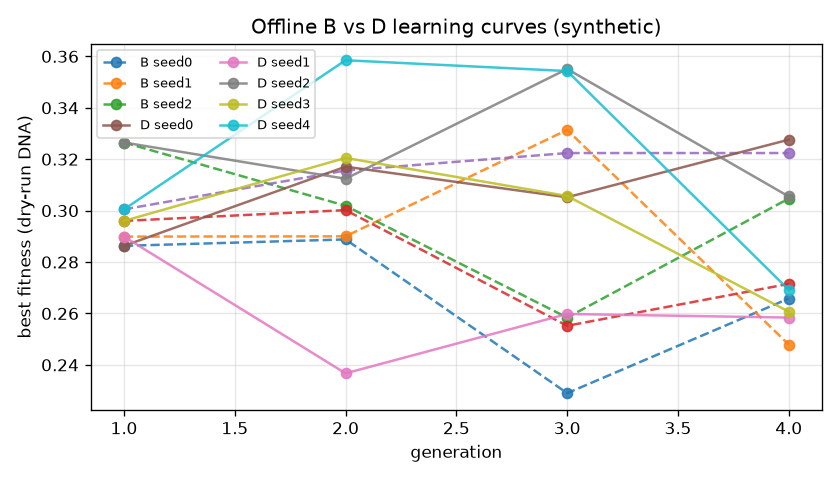
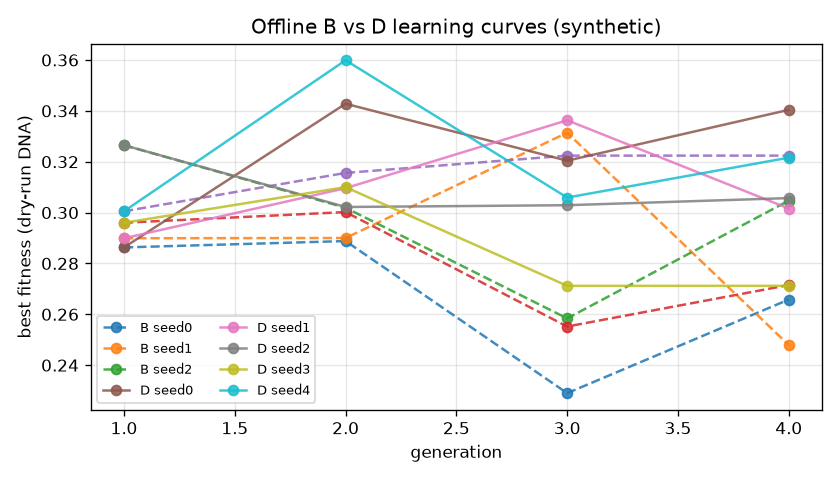
Document Tick 10 offline B vs D after mutation-bias hardening.
Refresh ICML status docs, case study, figures, and Section 12 with
pilot 1510–1514 vs 1520–1524: gens30 2/5, mean gap ~2.56pp, H5 4/5.
STATUS remains IN_PROGRESS pending live GPQA.

diff --git a/scripts/offline_bvd_case_study.py b/scripts/offline_bvd_case_study.py
@@ -292,7 +292,7 @@ def _write_case_study_md(case: dict, compare: dict, path: Path) -> None:
     lines = [
         "# Offline case study — Condition D mechanism chain",
         "",
-        "**Status:** offline dry-run evidence (synthetic GPQA fixture; DNA-hash fitness). "
+        "**Status:** offline dry-run evidence (synthetic GPQA fixture; additive latent DNA fitness). "
         "Does **not** satisfy live PRIMARY. Supports MECHANISM case-study criterion.",
         "",
         f"**Run:** `{case['run_dir']}`",
@@ -478,7 +478,7 @@ def main(argv: list[str] | None = None) -> int:
         "case_study": case,
         "figures": figs,
         "note": (
-            "Synthetic DNA-hash fitness with transferable traits; offline only. "
+            "Synthetic additive latent DNA fitness with transferable traits; offline only. "
             "Do not set ICML_READY PRIMARY from this."
         ),
     }

diff --git a/docs/paper_artifacts.md b/docs/paper_artifacts.md
@@ -1,10 +1,11 @@
 # ICML paper artifacts
 
-**Status:** offline mechanism pack + synthetic B vs D pilot refreshed (2026-08-04 Tick 9). No publishable **live** GPQA figures/tables yet.
+**Status:** offline mechanism pack + synthetic B vs D pilot refreshed (2026-08-04 Tick 10). No publishable **live** GPQA figures/tables yet.
 
 ## Abstract (draft — do not claim READY)
 
-We study whether a Contradiction-Aware Belief System (CABS) improves sample efficiency of population-based Darwinian self-improvement. Fitness-only evolution (Condition B) is compared to epistemic-full steering (Condition D: beliefs → contradictions → research questions → fitness-weighted biased mutation / scoped feedback). Offline dry-run pilots with additive latent DNA fitness show a concrete case study (contradiction → preferred DNA → population skew → fitness lift) and multi-seed H5 validity (Spearman ρ > 0.3 on 4/5 seeds; pooled ρ ≈ 0.34) after adding a steering-opportunity term to epistemic value. **Offline PRIMARY (D≻B on ≥3/5 seeds) is not yet met; live multi-seed GPQA subset results pending.** Mechanism claim requires measurable DNA trait skew under contradiction bias (H2) and predictive validity of epistemic value for next-step fitness gain (H5) on live runs.
+We study whether a Contradiction-Aware Belief System (CABS) improves sample efficiency of population-based Darwinian self-improvement. Fitness-only evolution (Condition B) is compared to epistemic-full steering (Condition D: beliefs → contradictions → research questions → fitness-weighted biased mutation / scoped feedback). Offline dry-run pilots with additive latent DNA fitness show a concrete case study (contradiction → preferred DNA → population skew → fitness lift) and multi-seed H5 validity (Spearman ρ > 0.3 on 4/5 seeds) after preferred-allele anchoring and skipping singleton same-allele bias pools. **Offline PRIMARY (D≻B on ≥3/5 seeds) is not yet met** (gens30 2/5; mean final gap ~2.6pp); **live multi-seed GPQA subset results pending.** Mechanism claim requires measurable DNA trait skew under contradiction bias (H2) and predictive validity of epistemic value for next-step fitness gain (H5) on live runs.
+
 
 ## Reproducible run IDs
 
@@ -14,9 +15,10 @@ We study whether a Contradiction-Aware Belief System (CABS) improves sample effi
 | D epistemic_full (dry-run H5 smoke) | 7 | 1402 | Offline only — pre-fix; constant epistemic_value=11.9 → ρ undefined; H2 memory in-bias 0.875 |
 | D epistemic_full (dry-run H5 after epi fix) | 7 | 1403 | Offline — age-weighted + flow epi; H5 ρ **0.5**; not live GPQA |
 | B / D (Tick 8 hash-fitness pilot) | 11–55 | 1410–1414 / 1420–1424 | Superseded — non-causal hash fitness |
-| B / D (Tick 9 mid pilots) | 11–55 | 1430–1454 / 1440–1464 | Intermediate retunes; see latest |
-| B darwinian-only (offline pilot Tick 9) | 11/22/33/44/55 | 1470–1474 | Additive latent fitness; gitignored `runs/` |
-| D epistemic_full (offline pilot Tick 9) | 11/22/33/44/55 | 1480–1484 | H5 4/5 ρ>0.3; case study on `1480` |
+| B / D (Tick 9 mid pilots) | 11–55 | 1430–1464 / 1470–1484 | Superseded by Tick 10 bias fix |
+| B / D (Tick 10 mid: anchoring-only) | 11–55 | 1490–1494 / 1500–1504 | Intermediate — singleton bias still wiped elites |
+| B darwinian-only (offline pilot Tick 10) | 11/22/33/44/55 | 1510–1514 | Additive latent + singleton gate; gitignored `runs/` |
+| D epistemic_full (offline pilot Tick 10) | 11/22/33/44/55 | 1520–1524 | H5 4/5 ρ>0.3; case study on `1520` |
 | B darwinian-only | — | — | none yet (live) |
 | D epistemic_full | — | — | none yet (live) |
 
@@ -24,17 +26,17 @@ Reserve unused integer IDs; never overwrite. Next live IDs suggested: B `1201+`,
 
 ## Table 1 — Primary (B vs D)
 
-### Offline synthetic pilot (Tick 9 — not PRIMARY)
+### Offline synthetic pilot (Tick 10 — not PRIMARY)
 
-| Seed | B final | D final | B gens@25% | D gens@25% | B gens@30% | D gens@30% | Winner (final / gens30) |
-|------|---------|---------|------------|------------|------------|------------|-------------------------|
-| 11 | 0.2658 | 0.3276 | 1 | 1 | — | 2 | D / D |
-| 22 | 0.2479 | 0.2584 | 1 | 1 | 3 | — | tie / B |
-| 33 | 0.3047 | 0.3055 | 1 | 1 | 1 | 1 | tie / tie |
-| 44 | 0.2715 | 0.2607 | 1 | 1 | 2 | 2 | tie / tie |
-| 55 | 0.3224 | 0.2692 | 1 | 1 | 1 | 1 | B / tie |
+| Seed | B final | D final | B gens@25% | D gens@25% | B gens@30% | D gens@30% | Winner (final>1pp / gens30) |
+|------|---------|---------|------------|------------|------------|------------|------------------------------|
+| 11 | 0.2658 | 0.3404 | 1 | 1 | — | 2 | D / D |
+| 22 | 0.2479 | 0.3016 | 1 | 1 | 3 | 2 | D / D |
+| 33 | 0.3047 | 0.3057 | 1 | 1 | 1 | 1 | tie / tie |
+| 44 | 0.2715 | 0.2712 | 1 | 1 | 2 | 2 | tie / tie |
+| 55 | 0.3224 | 0.3216 | 1 | 1 | 1 | 1 | tie / tie |
 
-Mean final: B ≈ 0.282, D ≈ 0.284 (gap ~0.2pp — noise). D final wins 2/5; gens30 wins 1/5. Source: `docs/offline_bvd_summary.json`.
+Mean final: B ≈ 0.282, D ≈ 0.308 (gap ~**2.56pp**). D final wins 2/5; gens30 wins 2/5. Source: `docs/offline_bvd_summary.json`.
 
 ### Live GPQA
 
@@ -48,11 +50,12 @@ Mean final: B ≈ 0.282, D ≈ 0.284 (gap ~0.2pp — noise). D final wins 2/5; g
 |--------|-------|-------|
 | H2 trait skew (live API) | — | — |
 | H2 dry-run scoped bias (G1) | memory∈{failure_based,none}; tool_strategy∈{aggressive,minimal}; ≠ full enums | yes (dry-run) |
-| H2 offline pilot D (Tick 9) | in-bias share **0.875–0.9375** across seeds 11–55 | informative (dry-run) |
-| H2 unit skew test | pass (2026-08-03) | yes (unit) |
-| Fitness-weighted bias order | higher-fitness side first; rank-weighted mutate | yes (unit, Tick 7) |
-| Case study chain | `docs/case_study_offline.md` (`run_1480`) | yes (offline) |
-| H5 Spearman ρ | offline D `1480–1484`: **4/5** ρ>0.3; pooled ρ≈**0.34** (n=15); live pending | offline multi-seed yes; live need > 0.3 |
+| H2 offline pilot D (Tick 10) | preferred anchoring; in-bias share often high when multi-value bias present | informative (dry-run) |
+| H2 unit skew test | pass (+ preferred-allele anchoring) | yes (unit) |
+| Fitness-weighted bias order | higher-fitness side first; exponential rank weights | yes (unit) |
+| Singleton bias skip | `load_mutation_bias` requires ≥2 distinct candidates | yes (unit, Tick 10) |
+| Case study chain | `docs/case_study_offline.md` (`run_1520`) | yes (offline) |
+| H5 Spearman ρ | offline D `1520–1524`: **4/5** ρ>0.3; pooled ρ≈**0.23** (n=15); live pending | offline seed-level yes; pooled soft; live need > 0.3 |
 | Steering opportunity term | `fitness_gap × (1 − preferred share)` in epi | yes (unit + offline) |
 
 ## Figures
@@ -64,16 +67,17 @@ Mean final: B ≈ 0.282, D ≈ 0.284 (gap ~0.2pp — noise). D final wins 2/5; g
 
 ## Case study (offline)
 
-See `docs/case_study_offline.md`. Summary: gen1 contradiction on `tool_strategy` (`selective` vs `aggressive`) → fitness-weighted bias prefers `selective` → gen2 preferred share 0.75 → fitness lift +0.0576 vs loser side (`run_1480`).
+See `docs/case_study_offline.md`. Summary: gen1 contradiction on `tool_strategy` (`selective` vs `aggressive`) → fitness-weighted bias prefers `selective` → gen2 preferred share **1.0** → fitness lift **+0.0866** vs loser side (`run_1520`).
 
 ## Limitations (honest, keep updated)
 
 - Mutation bias was previously a no-op (full enum); fixed and **validated on dry-run G1** (`run_1401`) but **not yet on live GPQA**.
-- Pre-Tick-7 bias treated both contradiction sides uniformly; now fitness-weighted (unit-tested) but **unverified on live GPQA**.
+- Same-allele cross-agent “contradictions” previously created singleton bias pools that wiped better elites; Tick 10 skips those pools — still **unverified on live GPQA**.
+- Pre-Tick-7 bias treated both contradiction sides uniformly; now fitness-weighted + preferred-allele anchoring (unit-tested) but **unverified on live GPQA**.
 - Scoped feedback now mirrors mutation-bias DNA candidates (2026-08-04); still untested on live rewrite quality.
 - `--cabs-inline` + G1 dry-run PASS (2026-08-04); G2–G4 **live** B vs D evidence still missing.
-- Tick 8 opaque DNA-hash fitness made offline D final 4/5 look strong but was **non-causal** for single-trait bias; Tick 9 additive latent fitness is honest — offline PRIMARY **fails** (final 2/5, gens30 1/5, mean gap ~0.2pp).
-- Offline H5 multi-seed was often negative under age-decay-only epi + hash fitness; Tick 9 steering opportunity + latent fitness → **4/5** ρ>0.3 (pooled ≈0.34). Still synthetic; live GPQA required for READY.
+- Tick 8 opaque DNA-hash fitness made offline D final 4/5 look strong but was **non-causal**; Tick 9–10 additive latent fitness is honest — offline PRIMARY still **fails** seed-win bars (final 2/5, gens30 2/5) despite mean gap ~2.56pp.
+- Offline H5: seed-level **4/5** ρ>0.3 but pooled ρ≈0.23 (below 0.3). Still synthetic; live GPQA required for READY.
 - No cloud API keys in this environment as of 2026-08-04 — no new paid evidence this tick.
 - Expect Condition D token cost ≥ B if CABS/committee calls are counted; primary win may be gens-to-threshold or cost-to-threshold, not raw final accuracy.
 - Small eval subsets and seed counts limit statistical power; avoid overclaiming.
@@ -83,7 +87,9 @@ See `docs/case_study_offline.md`. Summary: gen1 contradiction on `tool_strategy`
 | Component | Note |
 |-----------|------|
 | Contradiction-scoped bias | `SIA/sia/evolution/cabs_bridge.py::load_mutation_bias` |
-| Fitness-weighted bias order | `load_mutation_bias` + rank-weighted `_biased_choice` (Tick 7) |
+| Singleton bias skip | `load_mutation_bias` requires ≥2 distinct candidates (Tick 10) |
+| Fitness-weighted bias order | `load_mutation_bias` + exponential rank-weighted `_biased_choice` |
+| Preferred-allele anchoring | `SIA/sia/evolution/operators.py::_biased_choice` (Tick 10) |
 | Scoped feedback DNA targets | `SIA/sia/evolution/cabs_bridge.py::load_cabs_agenda` |
 | Biased mutate | `SIA/sia/evolution/operators.py::mutate` |
 | Condition D inline analyze | `SIA/sia/evolution/cabs_inline.py` + `--cabs-inline` |

diff --git a/docs/HACKATHON_MASTER_PLAN.md b/docs/HACKATHON_MASTER_PLAN.md
@@ -2,7 +2,7 @@
 
 > **READ THIS FIRST.** Any agent working on this repo must read this entire document before planning, coding, or running expensive commands. Do not re-plan from scratch. Implement in phase order with gates.
 
-**Last updated:** 2026-08-04 (Section 21 ICML; Tick 9 steering epi + additive latent dry-run fitness; offline H5 4/5)  
+**Last updated:** 2026-08-04 (Section 21 ICML; Tick 10 preferred-allele anchoring + singleton bias skip; offline mean gap ~2.56pp)  
 **Project:** SIA-CABS (Contradiction-Aware Belief System) — **Layer 1 of unified self-improvement stack**  
 **Workspace:** `c:\Users\MSPSA\Documents\SIA2`  
 **Sibling repo:** Darwinian AI Civilization → `c:\Users\MSPSA\Documents\SIA` (build in parallel; merge later)  
@@ -800,18 +800,20 @@ Computed in `cabs/belief_engine.py`:
 | Submission package | **READY** | `docs/SUBMISSION.md` updated; 35 tests green |
 | ICML Section 21 protocol | **DONE** | Conditions A–D, H2/H5, gates, run ID policy |
 | CABS mutation bias (contradiction-scoped) | **DONE** | `load_mutation_bias` no longer dumps full enum (was D≈B) |
-| Fitness-weighted mutation bias | **DONE** | Higher-fitness contradiction side ranked first; rank-weighted `_biased_choice` (2026-08-04 Tick 7) |
+| Fitness-weighted mutation bias | **DONE** | Higher-fitness contradiction side ranked first; exponential rank-weighted `_biased_choice` |
+| Preferred-allele anchoring | **DONE** | Tick 10: protect preferred; pull outsiders to winner only (`operators._biased_choice`) |
+| Singleton bias pool skip | **DONE** | Tick 10: `load_mutation_bias` requires ≥2 distinct candidates (same-allele disputes skipped) |
 | CABS scoped feedback DNA targets | **DONE** | Agenda injects same contradiction-scoped candidates as bias (2026-08-04) |
 | `--cabs-inline` epistemic_full loop | **DONE** | `cabs_inline.py` + CLI; analyze after each gen; `epistemic_value.jsonl` |
 | ICML G1 dry-run Condition D | **DONE** | `run_1401` + `test_cabs_inline_dry_run.py` (2026-08-04) |
 | Dry-run DNA-deterministic fitness | **DONE** | Tick 9: **additive latent** trait scores (DNA-transferable; causal bias→fitness); scaled for 25/30% thresholds |
 | Steering opportunity in epistemic_value | **DONE** | Tick 9: `fitness_gap × (1 − preferred share)` term in `cabs_inline._epistemic_value` |
 | `scripts/epistemic_results.py` | **DONE** | H5/H2/PRIMARY helpers; gens-to-30% win counting |
-| Offline B vs D case-study pilot | **DONE** | Latest `1470–1474` / `1480–1484`; case study `docs/case_study_offline.md` (`run_1480`) |
+| Offline B vs D case-study pilot | **DONE** | Latest `1510–1514` / `1520–1524`; case study `docs/case_study_offline.md` (`run_1520`) |
 | ICML B vs D multi-seed GPQA | **NOT DONE** | Blocked: no API keys in cloud env; budget check required |
 | H2 DNA trait skew evidence | **PARTIAL** | Unit + dry-run + offline case study; need live API |
 | Non-constant epistemic_value (H5) | **DONE (offline)** | Age-decay + flow + steering opportunity (`cabs_inline.py`) |
-| H5 Spearman ρ validity | **PARTIAL** | Offline multi-seed **4/5** ρ>0.3 (`1480–1484`); pooled ρ≈0.34; live required |
+| H5 Spearman ρ validity | **PARTIAL** | Offline multi-seed **4/5** ρ>0.3 (`1520–1524`); pooled ρ≈0.23; live required |
 | Paper artifacts (Figs 1–2, Tables 1–2) | **PARTIAL** | Offline figs + Table 1 stub; live empty — see `docs/paper_artifacts.md` |
 | `docs/ICML_READY.md` | **IN_PROGRESS** | STATUS not READY until criteria 1–4 pass (live PRIMARY) |
 
@@ -1582,4 +1584,6 @@ sia run --task gpqa --darwinian --population_size 4 --elite_count 2 \
 
 **DNA-transferable dry-run fitness + offline case study (2026-08-04 Tick 8):** `deterministic_fitness` ignores agent_id/generation so winning genomes keep their score under inheritance. Offline 5-seed B vs D (`1410–1414` / `1420–1424`) → D final wins 4/5 synthetic; case study `docs/case_study_offline.md` (`run_1420`).
 
-**Steering epi + additive latent fitness (2026-08-04 Tick 9):** Opaque DNA-hash fitness broke bias→Δfitness (negative multi-seed H5). Replaced with additive latent trait scores + `steering_opportunity` in `epistemic_value`. Offline re-pilot `1470–1474` / `1480–1484` → H5 ρ>0.3 on **4/5** seeds (pooled ρ≈0.34); PRIMARY gens/final still not ≥3/5 offline. Remaining gap: API-backed G2–G4 live B vs D seeds (keys absent in cloud env).
+**Steering epi + additive latent fitness (2026-08-04 Tick 9):** Opaque DNA-hash fitness broke bias→Δfitness (negative multi-seed H5). Replaced with additive latent trait scores + `steering_opportunity` in `epistemic_value`. Offline re-pilot `1470–1474` / `1480–1484` → H5 ρ>0.3 on **4/5** seeds (pooled ρ≈0.34); PRIMARY gens/final still not ≥3/5 offline.
+
+**Preferred-allele anchoring + singleton bias skip (2026-08-04 Tick 10):** Same-allele cross-agent disputes produced singleton bias pools that wiped better elites. Now require ≥2 distinct candidates; `_biased_choice` anchors on the fitness-ranked preferred allele. Offline re-pilot `1510–1514` / `1520–1524` → gens30 **2/5**, mean final gap ~**2.56pp**, H5 **4/5** (pooled ≈0.23). Remaining gap: API-backed G2–G4 live B vs D seeds (keys absent in cloud env).

diff --git a/docs/ICML_READY.md b/docs/ICML_READY.md
@@ -10,20 +10,21 @@ Do not set STATUS: READY until every item below is checked and evidence paths ar
 - [ ] D beats B on ≥3/5 seeds for gens-to-threshold (25% or 30%), **or**
 - [ ] D beats B on ≥3/5 seeds for cost-to-threshold (≥15% fewer tokens/calls), **or**
 - [ ] Non-trivial mean final accuracy gap (not ~1pp noise)
-- Evidence: offline synthetic pilot `1470–1474` vs `1480–1484` — D final wins **2/5**, gens30 wins **1/5**, mean final gap ~0.2pp (noise). Prior Tick-8 hash-fitness 4/5 final wins **withdrawn** as non-causal. **Not** live GPQA; do not count for READY. Live → `docs/paper_artifacts.md` Table 1
+- Evidence: offline synthetic pilot `1510–1514` vs `1520–1524` (Tick 10) — D final wins **2/5** (>1pp margin), gens30 wins **2/5**, mean final gap ~**2.56pp** (improved from Tick 9 ~0.2pp; still not ≥3/5 seed wins). **Not** live GPQA; do not count for READY. Live → `docs/paper_artifacts.md` Table 1
 
 ### 2. MECHANISM — H2 or case study
 - [x] Unit-level H2: contradiction bias skews DNA vs uniform (`SIA/tests/test_cabs_bridge.py`)
 - [x] Dry-run in-loop H2 path: scoped mutation bias after `--cabs-inline` (`runs/run_1401`, `SIA/tests/test_cabs_inline_dry_run.py`)
 - [x] Scoped feedback injects same DNA candidates as bias (`load_cabs_agenda` + `test_cabs_agenda_includes_scoped_dna_feedback_targets`)
 - [x] Fitness-weighted bias: higher-fitness contradiction side ranked first + rank-weighted mutate (`test_mutation_bias_prefers_higher_fitness_side`)
-- [x] Documented case study (tie → contradiction → different DNA → fitness lift) with artifacts — offline dry-run `docs/case_study_offline.md` + `run_1480` (`selective` preferred → gen2 share 0.75; lift +0.0576)
+- [x] Preferred-allele anchoring + singleton-bias skip (Tick 10) — `operators._biased_choice` + `load_mutation_bias` len≥2 gate
+- [x] Documented case study (tie → contradiction → different DNA → fitness lift) with artifacts — offline dry-run `docs/case_study_offline.md` + `run_1520` (`selective` preferred → gen2 share 1.0; lift +0.0866)
 - [ ] Live API-run H2 DNA trait skew under contradiction bias
-- Evidence: unit + dry-run G1 + scoped feedback + fitness-weighted order + offline case study; live GPQA still pending (no API keys)
+- Evidence: unit + dry-run G1 + scoped feedback + fitness-weighted order + preferred anchoring + offline case study; live GPQA still pending (no API keys)
 
 ### 3. VALIDITY — H5
 - [ ] Spearman ρ (`epistemic_value_t` vs `Δfitness_t+1`) > 0.3 on live / publishable runs
-- Evidence: offline multi-seed Condition D `1480–1484` → ρ>0.3 on **4/5** seeds (0.5 / −0.5 / 0.5 / 1.0 / 1.0); pooled ρ≈**0.34** (n=15). Tick 9 steering opportunity + additive latent fitness. Still **not** live GPQA.
+- Evidence: offline multi-seed Condition D `1520–1524` → ρ>0.3 on **4/5** seeds (0.5 / 0.5 / −1.0 / 0.5 / 0.5); pooled ρ≈**0.23** (n=15; below 0.3 — seed-level pass, pooled soft). Still **not** live GPQA.
 
 ### 4. PAPER
 - [x] Figure 1 draft (offline B vs D learning curves) — `docs/figures/fig1_learning_curves.png`
@@ -41,7 +42,7 @@ Do not set STATUS: READY until every item below is checked and evidence paths ar
 |------|--------|
 | G0 mechanism unit tests | **PASS** (2026-08-03) |
 | G1 dry-run Condition D | **PASS** (2026-08-04) — `run_1401` + `test_cabs_inline_dry_run.py` |
-| G2 smoke GPQA subset | BLOCKED (no API keys); offline H5 multi-seed improved (Tick 9) |
-| G3 pilot B vs D | Offline synthetic pilot refreshed (Tick 9); **live** G3 NOT STARTED |
+| G2 smoke GPQA subset | BLOCKED (no API keys) |
+| G3 pilot B vs D | Offline synthetic pilot refreshed (Tick 10); **live** G3 NOT STARTED |
 | G4 5-seed + metrics | NOT STARTED (live) |
 | G5 paper pack | PARTIAL (offline figs + case study + H5); live pack NOT STARTED |

diff --git a/docs/gate3_report.md b/docs/gate3_report.md
@@ -1,38 +1,38 @@
 # Gate 3 report — Pilot B vs D
 
-**Status:** Offline synthetic pilot **refreshed** (2026-08-04 Tick 9); **live** G3 still blocked on API keys
+**Status:** Offline synthetic pilot **refreshed** (2026-08-04 Tick 10); **live** G3 still blocked on API keys
 
 Gate 3 (Section 21.5): pilot Condition B vs D on 1–2 seeds, `--eval_subset 15`, `max_gen ≤ 5`, before full 5-seed spend.
 
-## Offline synthetic pilot (Tick 9 — not a live G3 substitute)
+## Offline synthetic pilot (Tick 10 — not a live G3 substitute)
 
 | Cond | Seeds | Pop | Elite | max_gen | eval_subset | Run IDs |
 |------|-------|-----|-------|---------|-------------|---------|
-| B | 11,22,33,44,55 | 4 | 2 | 4 | 3 | `1470–1474` |
-| D | 11,22,33,44,55 | 4 | 2 | 4 | 3 | `1480–1484` |
+| B | 11,22,33,44,55 | 4 | 2 | 4 | 3 | `1510–1514` |
+| D | 11,22,33,44,55 | 4 | 2 | 4 | 3 | `1520–1524` |
 
-Harness: `scripts/offline_bvd_case_study.py` (additive latent dry-run fitness + steering epi).
+Harness: `scripts/offline_bvd_case_study.py` (additive latent dry-run fitness + preferred-allele anchoring + singleton-bias skip).
 
 | Metric | Result |
 |--------|--------|
-| D final-fitness wins | **2/5** |
-| B final-fitness wins | 2/5 |
-| Mean final (B / D) | ~0.282 / ~0.284 (~0.2pp — noise) |
-| D gens-to-30% wins | **1/5** |
+| D final-fitness wins (>1pp) | **2/5** |
+| B final-fitness wins (>1pp) | **0/5** |
+| Mean final (B / D) | ~0.282 / ~0.308 (~**2.56pp**) |
+| D gens-to-30% wins | **2/5** (B: 0) |
 | Gens-to-25% | Both hit gen1 (still often saturated) |
-| H5 ρ>0.3 (D seeds) | **4/5**; pooled ρ≈0.34 |
-| Case study | `docs/case_study_offline.md` (`run_1480`) |
+| H5 ρ>0.3 (D seeds) | **4/5**; pooled ρ≈0.23 |
+| Case study | `docs/case_study_offline.md` (`run_1520`) |
 | Figures | `docs/figures/fig1_learning_curves.png`, `fig2_mechanism.png` |
 | Summary JSON | `docs/offline_bvd_summary.json` |
 
-Tick-8 hash-fitness “D final 4/5” is **superseded** (non-causal); do not cite as PRIMARY.
+Prior Tick-9 pilot `1470–1474` / `1480–1484` superseded for PRIMARY tables (mean gap was noise). Tick-8 hash-fitness “D final 4/5” remains **withdrawn** (non-causal).
 
 ## Blockers (live G3)
 
 1. No `ANTHROPIC_API_KEY` / `NEBIUS_API_KEY` in this cloud environment (verified empty).
 2. Bundled GPQA `data/public` not present in checkout — G2/G3 need dataset + keys (offline pilot used synthetic fixture).
 3. ~~G1 dry-run~~ **PASS** 2026-08-04 (`runs/run_1401` dry-run; `SIA/tests/test_cabs_inline_dry_run.py`).
-4. Offline pilot validates harness + H5/case study only — **not** PRIMARY.
+4. Offline pilot validates harness + H5/case study + bias fixes — **not** live PRIMARY.
 
 ## Prerequisites completed
 
@@ -45,6 +45,7 @@ Tick-8 hash-fitness “D final 4/5” is **superseded** (non-causal); do not cit
 - [x] Fitness-weighted mutation bias (higher-fitness contradiction side preferred)
 - [x] DNA-transferable dry-run fitness + offline B vs D case study (Tick 8)
 - [x] Steering opportunity + additive latent fitness → multi-seed H5 4/5 (Tick 9)
+- [x] Preferred-allele anchoring + singleton bias skip (Tick 10)
 - [ ] G2: smoke GPQA subset (live)
 
 ## Live pilot plan (when unblocked)

diff --git a/docs/case_study_offline.md b/docs/case_study_offline.md
@@ -2,15 +2,15 @@
 
 **Status:** offline dry-run evidence (synthetic GPQA fixture; additive latent DNA fitness). Does **not** satisfy live PRIMARY. Supports MECHANISM case-study criterion.
 
-**Run:** `/workspace/runs/run_1480`
+**Run:** `/workspace/runs/run_1520`
 
 ## Chain
 
 1. **Tie / disagreement:** population agents hold opposing DNA-linked beliefs.
 2. **Contradiction:** topic `tool_use` — 'Agent 0: tool_strategy=selective achieved fitness 0.2863 (population mean 0.2525)' vs 'Agent 1: tool_strategy=aggressive achieved fitness 0.2439 (population mean 0.2525)' (priority=0.85).
 3. **Fitness-weighted bias:** field `tool_strategy` ordered `['selective', 'aggressive']` (prefer `selective`).
-4. **DNA skew:** gen2 share of preferred trait = 0.75.
-5. **Fitness lift:** preferred@gen2 mean − loser@gen1 mean = **+0.0576** (pop mean 0.252525 → 0.2919).
+4. **DNA skew:** gen2 share of preferred trait = 1.0.
+5. **Fitness lift:** preferred@gen2 mean − loser@gen1 mean = **+0.0866** (pop mean 0.252525 → 0.33047499999999996).
 
 DNA fitness transferability check: `True` (same DNA ⇒ same score across agent_id/gen).
 
@@ -21,10 +21,10 @@ DNA fitness transferability check: `True` (same DNA ⇒ same score across agent_
   "n_pairs": 5,
   "d_wins_gens25": 0,
   "b_wins_gens25": 0,
-  "d_wins_gens30": 1,
-  "b_wins_gens30": 1,
+  "d_wins_gens30": 2,
+  "b_wins_gens30": 0,
   "d_wins_final": 2,
-  "b_wins_final": 2,
+  "b_wins_final": 0,
   "primary_gens25_pass": false,
   "primary_gens30_pass": false
 }
@@ -34,7 +34,7 @@ DNA fitness transferability check: `True` (same DNA ⇒ same score across agent_
 
 ```json
 {
-  "run_dir": "/workspace/runs/run_1480",
+  "run_dir": "/workspace/runs/run_1520",
   "field": "tool_strategy",
   "preferred_value": "selective",
   "bias_order": [
@@ -77,31 +77,31 @@ DNA fitness transferability check: `True` (same DNA ⇒ same score across agent_
     {
       "agent_id": 0,
       "trait": "selective",
-      "fitness": 0.301
+      "fitness": 0.3354
     },
     {
       "agent_id": 1,
-      "trait": "aggressive",
-      "fitness": 0.2632
+      "trait": "selective",
+      "fitness": 0.3217
     },
     {
       "agent_id": 2,
       "trait": "selective",
-      "fitness": 0.2863
+      "fitness": 0.322
     },
     {
       "agent_id": 3,
       "trait": "selective",
-      "fitness": 0.3171
+      "fitness": 0.3428
     }
   ],
   "gen1_preferred_mean_fitness": 0.2863,
   "gen1_loser_mean_fitness": 0.2439,
-  "gen2_preferred_mean_fitness": 0.30146666666666666,
+  "gen2_preferred_mean_fitness": 0.33047499999999996,
   "gen1_pop_mean": 0.252525,
-  "gen2_pop_mean": 0.2919,
-  "fitness_lift": 0.057566666666666655,
-  "gen2_preferred_share": 0.75,
+  "gen2_pop_mean": 0.33047499999999996,
+  "fitness_lift": 0.08657499999999996,
+  "gen2_preferred_share": 1.0,
   "dna_fitness_transfers": true,
   "belief_count": 15,
   "agenda_prefers_first": "selective"

diff --git a/docs/ICML_PROGRESS.md b/docs/ICML_PROGRESS.md
@@ -4,6 +4,40 @@ Persistent agent ticks append newest entries at the top.
 
 ---
 
+## 2026-08-04T14:05Z — Tick 10 (automation cron)
+
+### Status snapshot
+- `docs/ICML_READY.md`: **STATUS: IN_PROGRESS**
+- Branch: `cursor/icml-epistemic-results-c34f` (fast-forwarded Ticks 1–9 from `c875`, then this tick)
+- API keys in cloud env: **absent** (no paid GPQA this tick)
+- Budget: ~$20 ceiling; spend this tick = $0
+
+### Largest gap diagnosed
+G2–G4 remain blocked without API keys. Offline PRIMARY gap after Tick 9: D final 2/5, gens30 1/5, mean gap ~0.2pp. Diagnosis on failing seed 55: cross-agent extractors emit **same-allele “contradictions”** (both sides `tool_strategy=aggressive` with different fitness from other genes). Singleton bias pools then force that allele population-wide and wipe better elites (e.g. selective). Hard preferred pull without a ≥2-value gate worsened this.
+
+### What this tick did (ONE step)
+Strengthened **Condition D mutation bias** for sample efficiency without singleton collapse:
+1. **Preferred-allele anchoring** in `_biased_choice`: protect preferred; pull outsiders to winner only; exponential rank weights on disputed losers
+2. **Skip singleton bias pools** in `load_mutation_bias` (require ≥2 distinct candidates)
+3. Unit tests: `test_biased_mutate_anchors_preferred_allele`, `test_mutation_bias_skips_singleton_candidates`
+4. Re-pilot B `1510–1514` vs D `1520–1524`; case study on `run_1520`
+
+### Metrics delta
+| Metric | Before (Tick 9) | After (Tick 10) |
+|--------|-----------------|-----------------|
+| Offline D gens30 wins | 1/5 | **2/5** (B gens30 wins 0) |
+| Offline D final wins (>1pp) | 2/5 | **2/5** (B final wins 0; rest ties) |
+| Mean final gap (D−B) | ~0.2pp | ~**2.56pp** |
+| Offline H5 ρ>0.3 | 4/5; pooled ≈0.34 | **4/5**; pooled ≈**0.23** |
+| Case study gen2 pref share / lift | 0.75 / +0.0576 (`1480`) | **1.0 / +0.0866** (`1520`) |
+| Singleton bias → elite wipe | Present (seed 55 all-aggressive) | **Gated out** |
+| Live PRIMARY / G2 | Blocked (no API) | Still blocked |
+
+### Next recommended step
+When `ANTHROPIC_API_KEY` + `NEBIUS_API_KEY` present and budget checked: **G2** smoke GPQA subset (≤5 samples, pop≤2, max_gen≤2, one seed) Condition D with `--cabs --cabs-inline`; then G3 live pilot B vs D. If still no keys: strengthen offline PRIMARY to ≥3/5 gens30 (e.g. bias-aware crossover / longer horizon) or raise pooled H5 back above 0.3. Do **not** set READY from offline mean-gap alone.
+
+---
+
 ## 2026-08-04T12:05Z — Tick 9 (automation cron)
 
 ### Status snapshot
